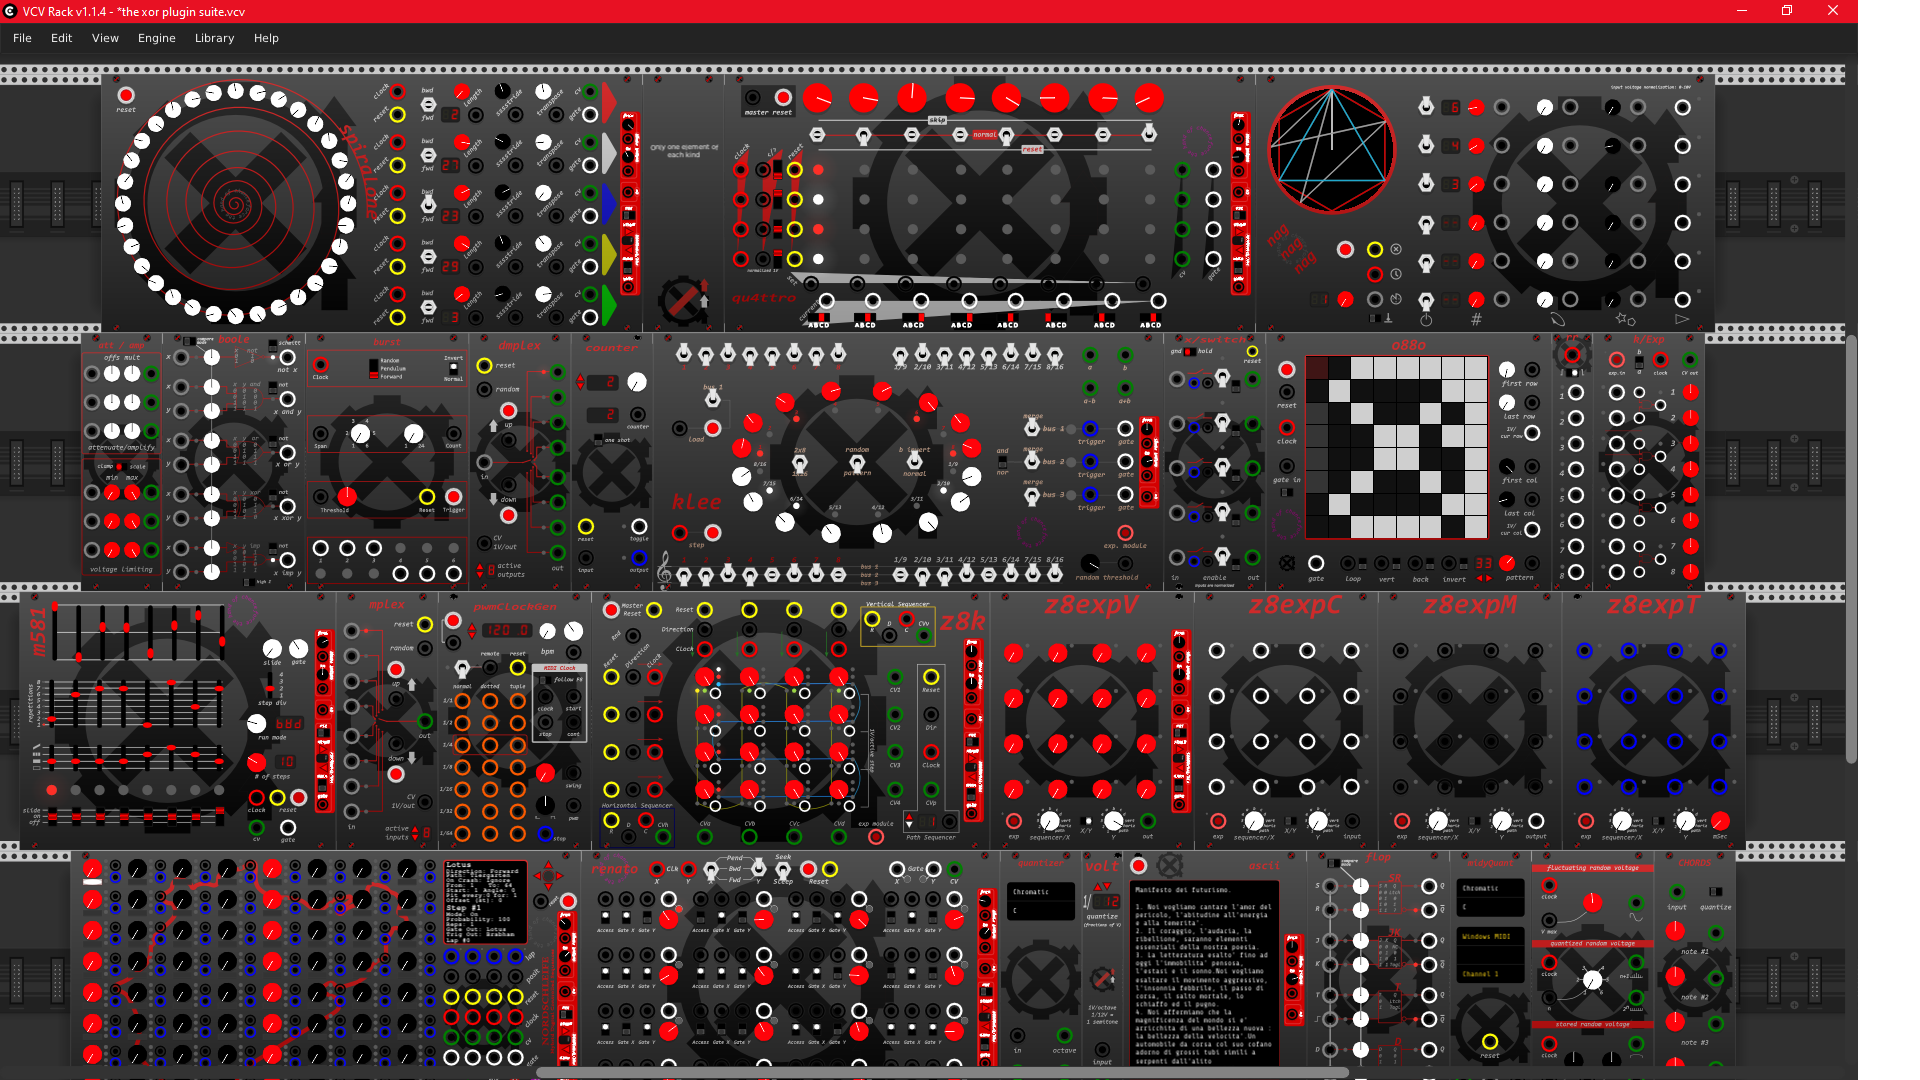
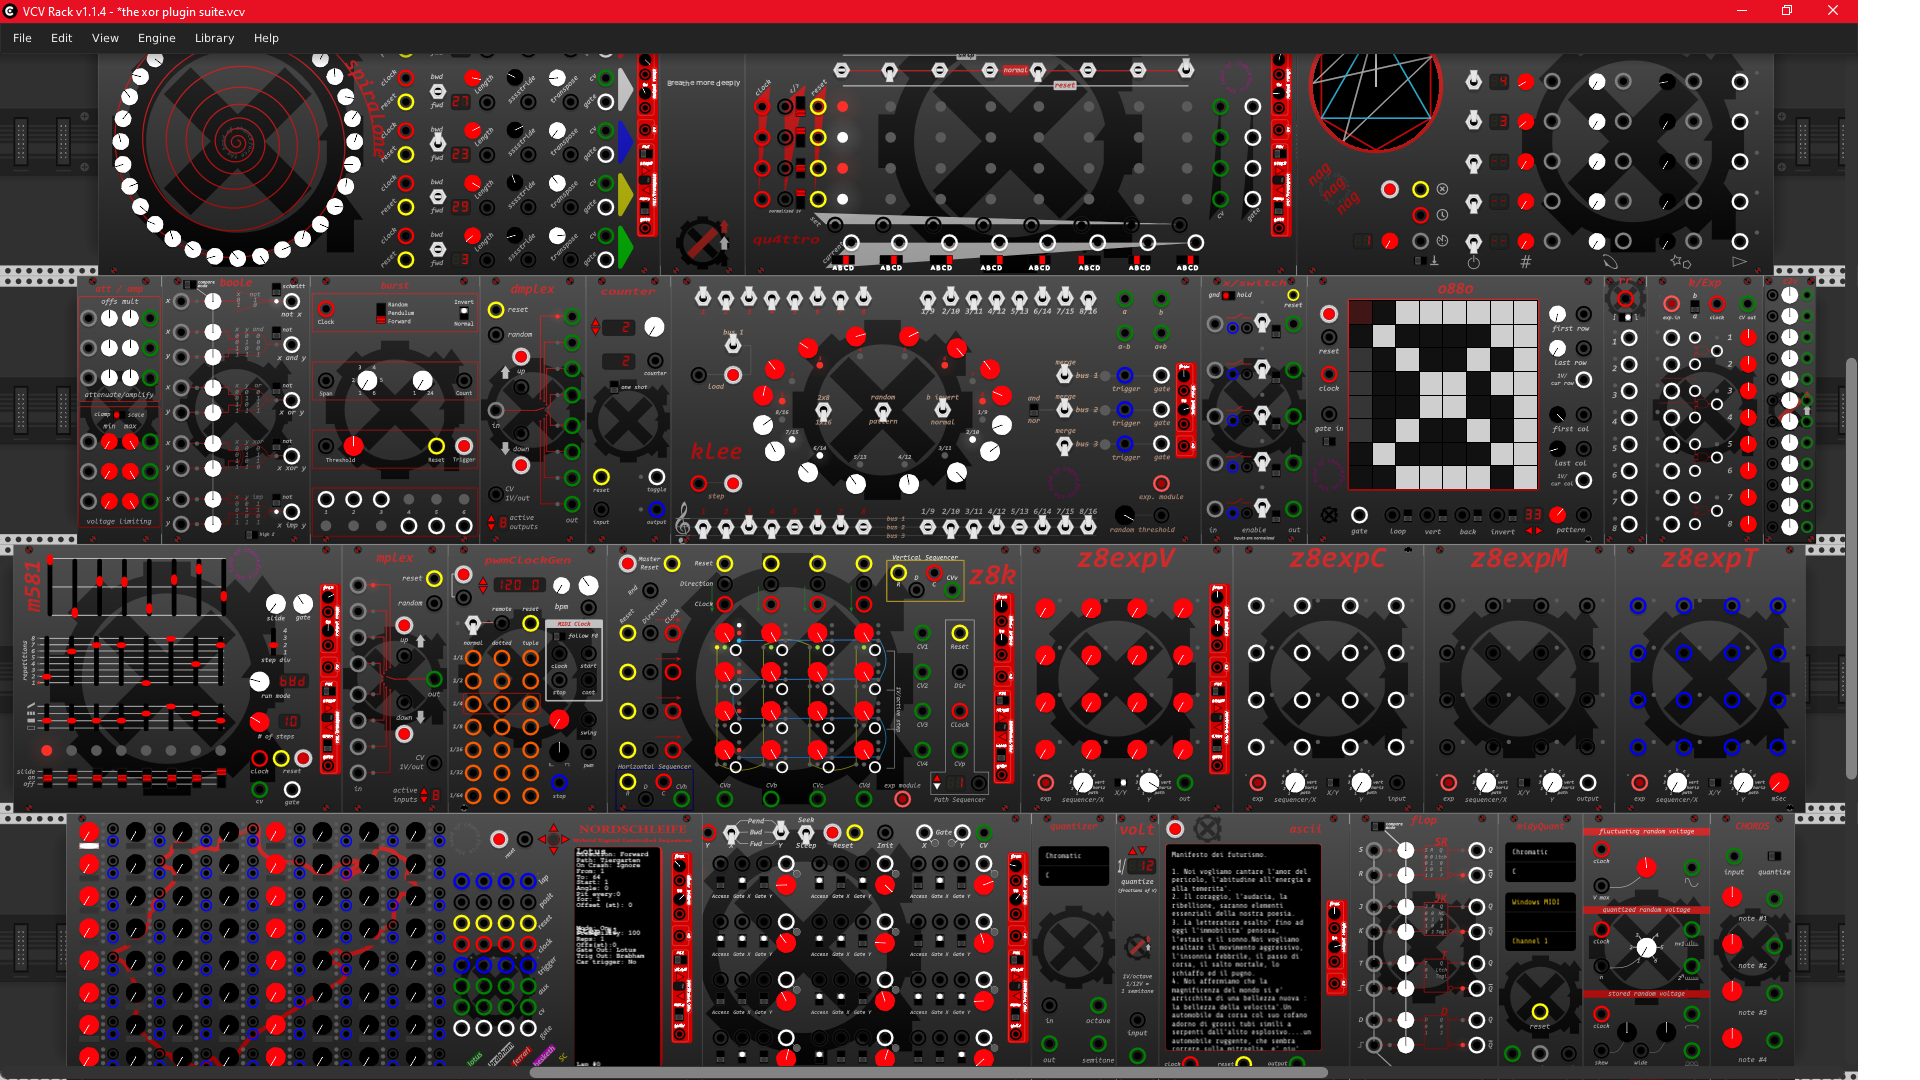
vola libero

diff --git a/src/pwmClock.cpp b/src/pwmClock.cpp
@@ -120,12 +120,10 @@ void PwmClock::process_active(const ProcessArgs &args, bool externalMidiClock, b
 		{
 			float pwm = getPwm();
 			float now = APP->engine->getSampleTime();
-			bool use_exp = outputs[EXP_PORT].isConnected();
-			float expansion_out = 0;
 
 			for(int k = 0; k < OUT_SOCKETS; k++)
 			{
-				if(use_exp || outputs[OUT_1 + k].isConnected())
+				if(outputs[OUT_1 + k].isConnected())
 				{
 					float gate_len = getDuration(k) * pwm;
 					sa_timer[k].Step(now);
@@ -135,11 +133,9 @@ void PwmClock::process_active(const ProcessArgs &args, bool externalMidiClock, b
 						elps = sa_timer[k].Reset(now);
 						odd_beat[k] = !odd_beat[k];
 					}
-					setExpansion(&expansion_out, k, elps <= gate_len);
 					outputs[OUT_1 + k].value = elps <= gate_len ? LVL_ON : LVL_OFF;
 				}
 			}
-			expOut(expansion_out);
 		}
 	}
 }
@@ -148,7 +144,6 @@ void PwmClock::process_extMidiClock(const ProcessArgs &args)
 {
 	uint64_t cc = midiClock.clockCounter();
 	float deltaTime = 1.0 / args.sampleRate;
-	float expansion_out = 0;
 
 	for(int k = 0; k < OUT_SOCKETS; k++)
 	{
@@ -161,11 +156,9 @@ void PwmClock::process_extMidiClock(const ProcessArgs &args)
 			{
 				midiClockTrig[k].trigger(PULSE_TIME);
 				outputs[OUT_1 + k].value = LVL_ON;
-				setExpansion(&expansion_out, k,true);
 			}
 		}
 	}
-	expOut(expansion_out);
 }
 
 void PwmClock::process_inactive(const ProcessArgs &args)
@@ -184,20 +177,16 @@ void PwmClock::process_inactive(const ProcessArgs &args)
 				outputs[OUT_1 + k].value = LVL_OFF;
 
 			lights[ACTIVE].value = LED_OFF;
-			expOut(0);  //all off
 		}
 		if((manualTrigger.process(params[PULSE].value) || pulseTrigger.process(inputs[PULSE_IN].value)))
 		{
 			onManualStep.trigger(PULSE_TIME);
 			optimize_manualStep = true;
-			float expansion_out = 0;
 			for(int k = 0; k < OUT_SOCKETS; k++)
 			{
 				outputs[OUT_1 + k].value = LVL_ON;
-				setExpansion(&expansion_out, k, true);
 			}
 			lights[ACTIVE].value = LED_ON;
-			expOut(expansion_out);
 		}
 	}
 	outputs[ONSTOP].value = onStopPulse.process(deltaTime) ? LVL_ON : LVL_OFF;
@@ -289,7 +278,6 @@ void PwmClock::process(const ProcessArgs &args)
 			lights[ACTIVE].value = LED_OFF;
 			for(int k = 0; k < OUT_SOCKETS; k++)
 				outputs[OUT_1 + k].value = LVL_OFF;
-			expOut(0);  //all off
 		}
 	}
 }
@@ -353,7 +341,6 @@ PwmClockWidget::PwmClockWidget(PwmClock *module) : SequencerWidget()
 		}
 	}
 	addOutput(createOutput<PJ301BLUPort>(Vec(mm2px(49.145), yncscape(10.525, 8.255)), module, PwmClock::ONSTOP));
-	addOutput(createOutput<PJ301EXP>(Vec(mm2px(63.162), yncscape(10.525, 8.255)), module, PwmClock::EXP_PORT));
 }
 
 void PwmClockWidget::SetBpm(float bpm_integer)

diff --git a/src/RenatoModule.cpp b/src/RenatoModule.cpp
@@ -48,6 +48,9 @@ void Renato::process(const ProcessArgs &args)
 	{
 		seqX.Reset();
 		seqY.Reset();
+	} else if(resetAccess.process(inputs[INIT_IN].value))
+	{
+		pWidget->resetAccess();
 	} else
 	{
 		if(pWidget != NULL)
@@ -183,6 +186,7 @@ RenatoWidget::RenatoWidget(Renato *module) : SequencerWidget()
 	addInput(createInput<PJ301RPort>(Vec(mm2px(33.509), yncscape(115.267, 8.255)), module, Renato::XCLK));
 	addInput(createInput<PJ301RPort>(Vec(mm2px(49.222), yncscape(115.267, 8.255)), module, Renato::YCLK));
 	addInput(createInput<PJ301YPort>(Vec(mm2px(119.500), yncscape(115.267, 8.255)), module, Renato::RESET));
+	addInput(createInput<PJ301BPort>(Vec(mm2px(134.122), yncscape(115.267, 8.255)), module, Renato::INIT_IN));
 
 	addInput(createInput<PJ301HPort>(Vec(mm2px(12.472), yncscape(115.267, 8.255)), module, Renato::RANDOMIZONE));
 
@@ -374,4 +378,14 @@ RenatoWidget::RandomizeSubItemItem::RandomizeSubItemItem(Module *k, const char *
 void RenatoWidget::RandomizeSubItemItem::onAction(const event::Action &e)
 {
 	renato->theRandomizer ^= randomizeDest;
+}
+
+void RenatoWidget::resetAccess()
+{
+	for(int k = 0; k < 16; k++)
+	{
+		SetValue(Renato::ACCESS_1 + k, 1);
+		SetValue(Renato::GATEX_1 + k, 1);
+		SetValue(Renato::GATEY_1 + k, 1);
+	}
 }

diff --git a/include/pwmClock.hpp b/include/pwmClock.hpp
@@ -150,7 +150,6 @@ struct PwmClock : Module
 	{
 		OUT_1,
 		ONSTOP = OUT_1 + OUT_SOCKETS,
-		EXP_PORT,
 		NUM_OUTPUTS
 	};
 
@@ -226,18 +225,7 @@ private:
 	void process_active(const ProcessArgs &args, bool externalMidiClock, bool followf8);
 	void process_inactive(const ProcessArgs &args);
 	void process_extMidiClock(const ProcessArgs &args);
-	inline void setExpansion(float *expansion_out, int trgout, bool status) 
-	{
-		if(status)
-			*((uint32_t *)expansion_out) |= (1L << trgout);
-	}
-	inline void expOut(float expansion_out)
-	{
-		uint8_t *p = (uint8_t *)&expansion_out;
-		*(p + 3) = EXPPORT_TIME;
-		outputs[EXP_PORT].setVoltage(expansion_out);
-	}
-
+	
 	inline float getDuration(int n) 	{return odd_beat[n] ? swingAmt[n] : duration[n]; }
 	float duration[OUT_SOCKETS];
 	float swingAmt[OUT_SOCKETS];

diff --git a/include/Renato.hpp b/include/Renato.hpp
@@ -10,6 +10,7 @@ struct RenatoWidget : SequencerWidget
 public:
 	void onMenu(int action);
 	RenatoWidget(Renato *module);
+	void resetAccess();
 	enum MENUACTIONS
 	{
 		RANDOMIZE_PITCH = 0x01,
@@ -81,6 +82,7 @@ struct Renato : Module
 		GATEX_IN1 = ACCESS_IN1 + 16,
 		GATEY_IN1 = GATEX_IN1 + 16,
 		RANDOMIZONE = GATEY_IN1 + 16,
+		INIT_IN,
 		RANGE_IN,
 		NUM_INPUTS = RANGE_IN + cvStrip::CVSTRIP_INPUTS
 	};
@@ -187,6 +189,7 @@ private:
 private:
 	RenatoWidget *pWidget;
 	dsp::SchmittTrigger resetTrigger;
+	dsp::SchmittTrigger resetAccess;
 	dsp::SchmittTrigger accessRndTrigger;
 	dsp::SchmittTrigger gatexRndTrigger;
 	dsp::SchmittTrigger gateyRndTrigger;

diff --git a/include/nordschleifeUI.hpp b/include/nordschleifeUI.hpp
@@ -160,6 +160,7 @@ struct nordDisplay : TransparentWidget
 			nvgFillColor(ctx.vg, nvgRGB(0xff, 0xff, 0xff));
 			nvgText(ctx.vg, ctx.left, ctx.top, pNord->cars[pNord->selectedCar].name.c_str(), NULL);
 		}
+		ctx.top += 6;
 		ctx.setFont();
 		nvgText(ctx.vg, ctx.left, box.size.y-1, pNord->cars[pNord->selectedCar].getLap().c_str(), NULL);
 	}

diff --git a/src/Nordschleife.cpp b/src/Nordschleife.cpp
@@ -328,7 +328,7 @@ void Nordschleife::declareFields()
 											   [this](int i) TO_STR(i + 1),
 											   true);
 
-	row += 3;
+	row += 5;
 
 	nsFields[NordschleifeFields::shlfMode].set(0, row++, "Mode: ", 0, NordschleifeStep::StepMode::NUM_STEP_MODE-1,
 											   [this] {return steps[selectedStep].mode; }, 

diff --git a/include/nagDisplays.hpp b/include/nagDisplays.hpp
@@ -1,5 +1,4 @@
-#pragma
-once
+#pragma once
 struct nag7Segm : TransparentWidget
 {
 private:

diff --git a/README.md b/README.md
@@ -119,3 +119,6 @@ clock round robin (with a switch)
 
 # chords
 not only bleep bleeps. the chords
+
+# c2v
+gate signals to voltages
